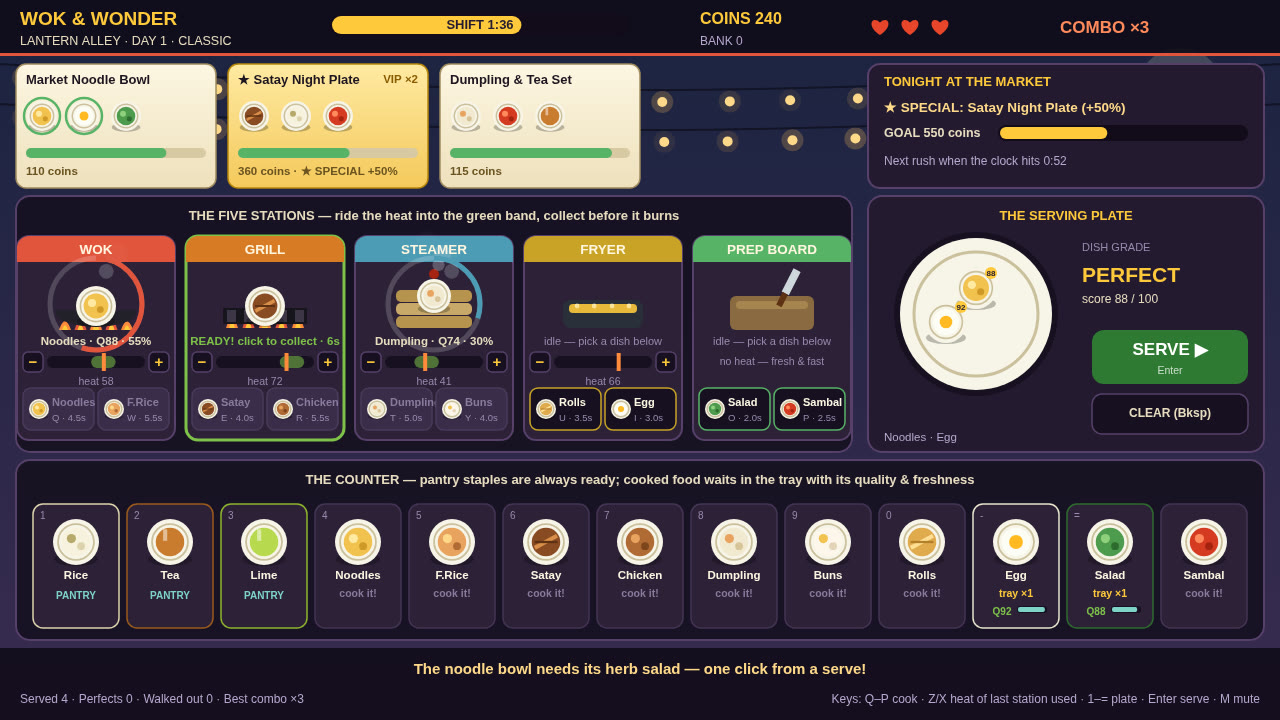
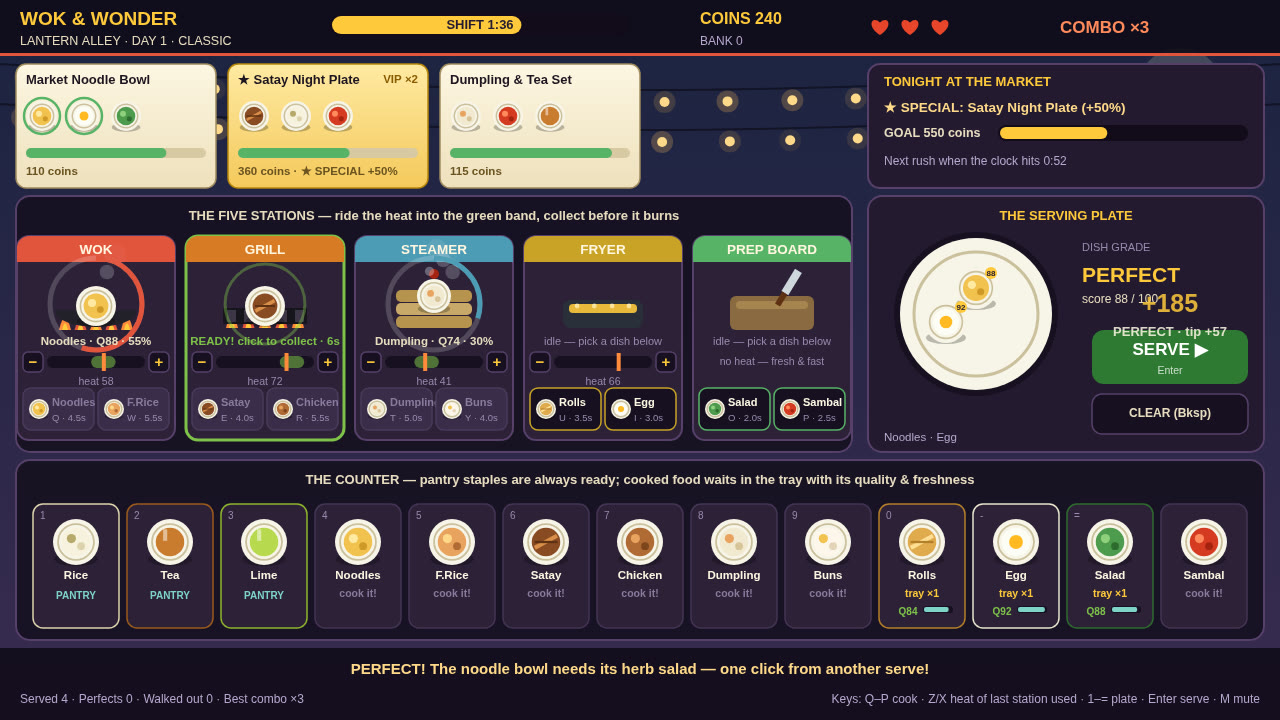
Polish: ticket slide-in, ready pulse, first-cook heat hint, title feature chips, richer cover scene

diff --git a/game/src/render.js b/game/src/render.js
@@ -205,8 +205,12 @@ function drawHeader(ctx, world) {
 
 function drawTickets(ctx, world, t) {
   for (let i = 0; i < world.maxOrders(); i += 1) {
-    const rect = ticketRect(i);
+    const baseRect = ticketRect(i);
     const order = world.orders[i];
+    // Fresh tickets slide in from the right and settle — the rail feels alive.
+    const age = order ? world.elapsed - (order.born ?? 0) : 1;
+    const slide = age < 0.35 ? (0.35 - age) * 160 : 0;
+    const rect = { ...baseRect, x: baseRect.x + slide };
     if (!order) {
       ctx.strokeStyle = 'rgba(253,246,227,0.25)';
       ctx.setLineDash([6, 6]);
@@ -374,6 +378,13 @@ function drawStationCard(ctx, world, stationId, index, t) {
     ctx.fillRect(-3, 6, 6, 14);
     ctx.restore();
     if (job) drawFood(ctx, job.comp, cx - 12, cy + 8, 18);
+  }
+  // A finished dish pulses a ring so the eye catches it before it burns.
+  if (job && job.phase === 'ready') {
+    const pulse = (t * 1.4 + index * 0.3) % 1;
+    ctx.strokeStyle = `rgba(127,194,74,${0.75 * (1 - pulse)})`;
+    ctx.lineWidth = 3;
+    ctx.beginPath(); ctx.arc(cx, cy, 30 + pulse * 22, 0, Math.PI * 2); ctx.stroke();
   }
   // Cooking progress arc.
   if (job && job.phase === 'cooking') {
@@ -582,12 +593,30 @@ function drawTitle(ctx, world, t) {
     ctx.fillStyle = '#ffd98a';
     ctx.beginPath(); ctx.ellipse(lx + sway, 84 * s, 9 * s, 30 * s, 0, 0, Math.PI * 2); ctx.fill();
   }
+  ctx.save();
+  ctx.shadowColor = 'rgba(255,201,60,0.55)';
+  ctx.shadowBlur = 26;
   text(ctx, 'WOK & WONDER', VIEW.width / 2, 138, 62, GOLD);
+  ctx.restore();
   text(ctx, 'N I G H T   M A R K E T   R U S H', VIEW.width / 2, 182, 21, '#ffd98a');
   text(ctx, 'Ride the heat, plate with pride, and feed the whole market before their patience runs out.', VIEW.width / 2, 216, 15.5, '#e8dcc0', 'center', false);
-  text(ctx, `BANK ${world.bank} coins · ${world.upgrades.size} upgrades owned${world.bestEndless > 0 ? ` · Best endless ${world.bestEndless}` : ''}`, VIEW.width / 2, 244, 14, '#b8a8d0', 'center', false);
+  // Feature chips: the whole game in one glance, right under the subtitle.
+  const chips = ['5 STATIONS', '12 RECIPES', '3 MARKETS', '10 UPGRADES', 'VIP + RUSH HOURS', 'ENDLESS MODE'];
+  ctx.font = '700 11.5px "Trebuchet MS", "Segoe UI", sans-serif';
+  const chipWidths = chips.map((c) => ctx.measureText(c).width + 22);
+  let chipX = VIEW.width / 2 - chipWidths.reduce((a, b) => a + b + 8, -8) / 2;
+  chips.forEach((chip, i) => {
+    ctx.fillStyle = 'rgba(23,16,33,0.85)';
+    rr(ctx, chipX, 230, chipWidths[i], 22, 11); ctx.fill();
+    ctx.strokeStyle = 'rgba(255,201,60,0.6)';
+    ctx.lineWidth = 1;
+    rr(ctx, chipX, 230, chipWidths[i], 22, 11); ctx.stroke();
+    text(ctx, chip, chipX + chipWidths[i] / 2, 241.5, 11.5, '#ffd98a');
+    chipX += chipWidths[i] + 8;
+  });
+  text(ctx, `BANK ${world.bank} coins · ${world.upgrades.size} upgrades owned${world.bestEndless > 0 ? ` · Best endless ${world.bestEndless}` : ''}`, VIEW.width / 2, 270, 14, '#b8a8d0', 'center', false);
   // Location cards.
-  text(ctx, 'CHOOSE YOUR MARKET', VIEW.width / 2, 276, 13, '#9a8ab0');
+  text(ctx, 'CHOOSE YOUR MARKET', VIEW.width / 2, 290, 13, '#9a8ab0');
   TITLE_UI.locCards.forEach((rect, i) => {
     const loc = LOCATIONS[i];
     const locked = i > world.unlockedLoc;

diff --git a/game/src/world.js b/game/src/world.js
@@ -125,6 +125,7 @@ export class World {
     this.rushMarks = [108, 52];
     this.magnetUsed = false;
     this.floaters = [];
+    this.hintedCook = false;
     this.lastServe = null;
     this.message = 'The lanterns are lit — first customers incoming!';
     this.shake = 0;
@@ -159,7 +160,7 @@ export class World {
     let patience = loc.patience * diff.patience * (this.hasUpgrade('cushions') ? 1.2 : 1);
     if (vip) patience *= 0.72;
     orderSerial += 1;
-    return { id: orderSerial, recipe, vip, patience, maxPatience: patience };
+    return { id: orderSerial, recipe, vip, patience, maxPatience: patience, born: this.elapsed ?? 0 };
   }
 
   // -- cooking ---------------------------------------------------------------
@@ -187,6 +188,10 @@ export class World {
       return false;
     }
     station.job = { comp: compId, progress: 0, quality: 70, phase: 'cooking', grace: 0 };
+    if (!this.hintedCook) {
+      this.hintedCook = true;
+      this.setMessage('Keep the heat needle in the green — quality climbs there! Collect the moment it is ready.');
+    }
     return true;
   }
 

diff --git a/game/src/shots.js b/game/src/shots.js
@@ -66,12 +66,16 @@ export function stageShot(world, name) {
     world.tray = [
       { id: 'friedEgg', quality: 92, fresh: 96 },
       { id: 'herbSalad', quality: 88, fresh: 90 },
+      { id: 'springRolls', quality: 84, fresh: 88 },
     ];
     world.plate = [
       { id: 'wokNoodles', quality: 88, fresh: 97 },
       { id: 'friedEgg', quality: 92, fresh: 96 },
     ];
-    world.setMessage('The noodle bowl needs its herb salad — one click from a serve!');
+    // A just-served PERFECT dish is still floating off the plate — the
+    // reward loop, visible in the very first frame a judge sees.
+    world.floaters = [{ text: '+185', sub: 'PERFECT · tip +57', grade: 'PERFECT', t: 0.25, life: 1.7 }];
+    world.setMessage('PERFECT! The noodle bowl needs its herb salad — one click from another serve!');
     return true;
   }
   return false;
